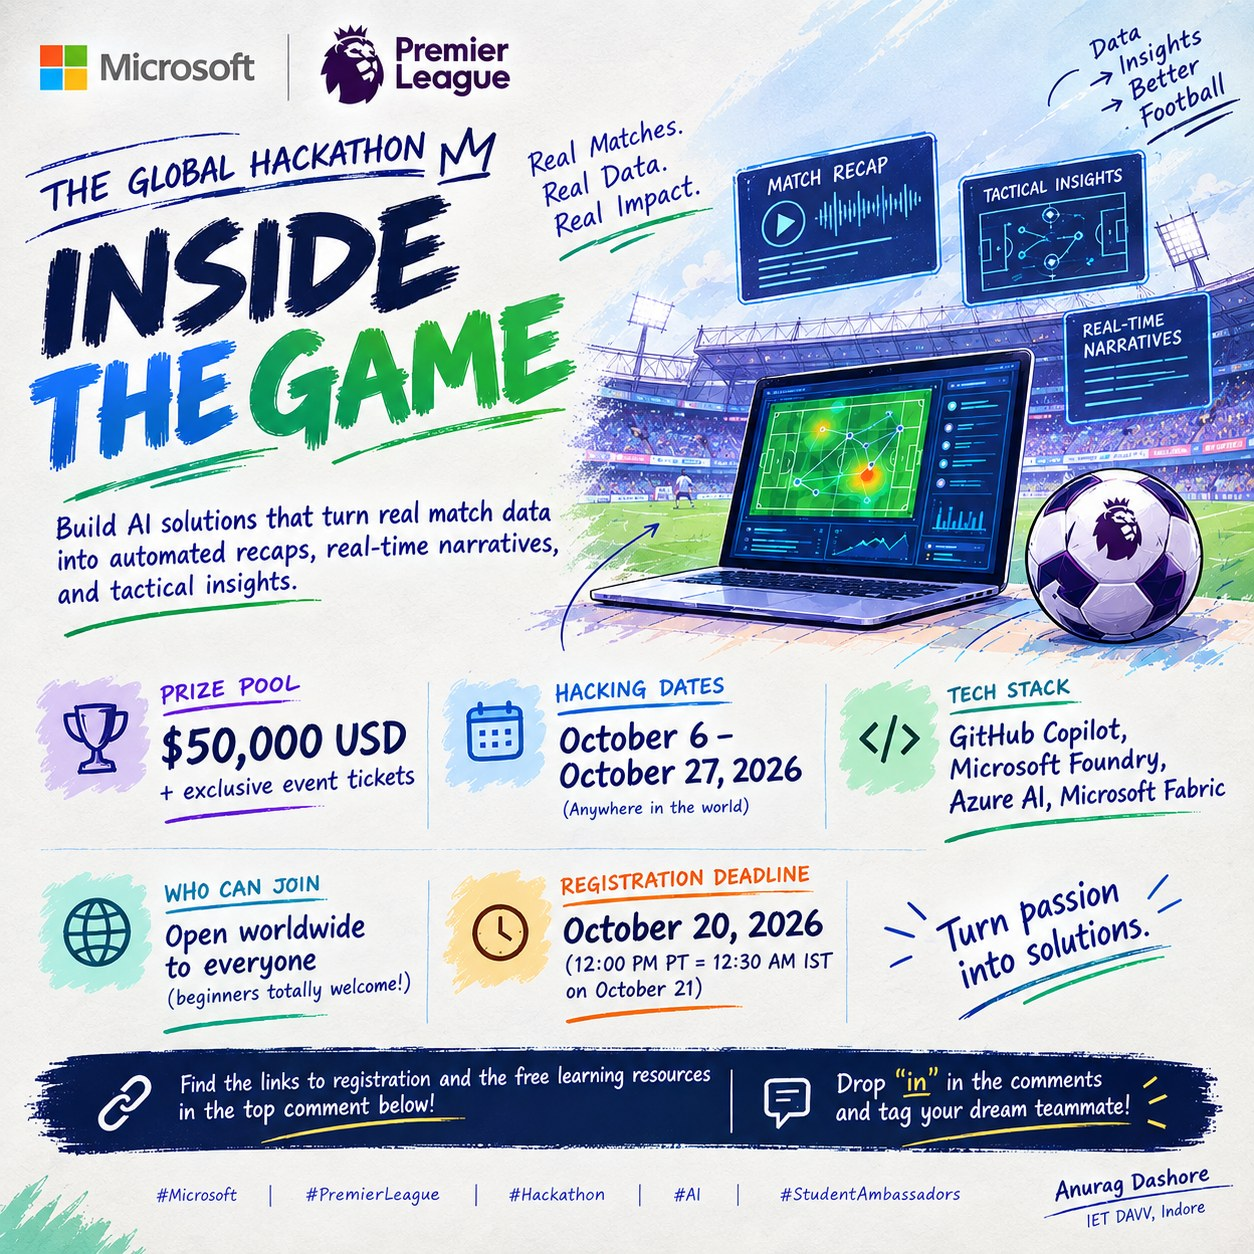
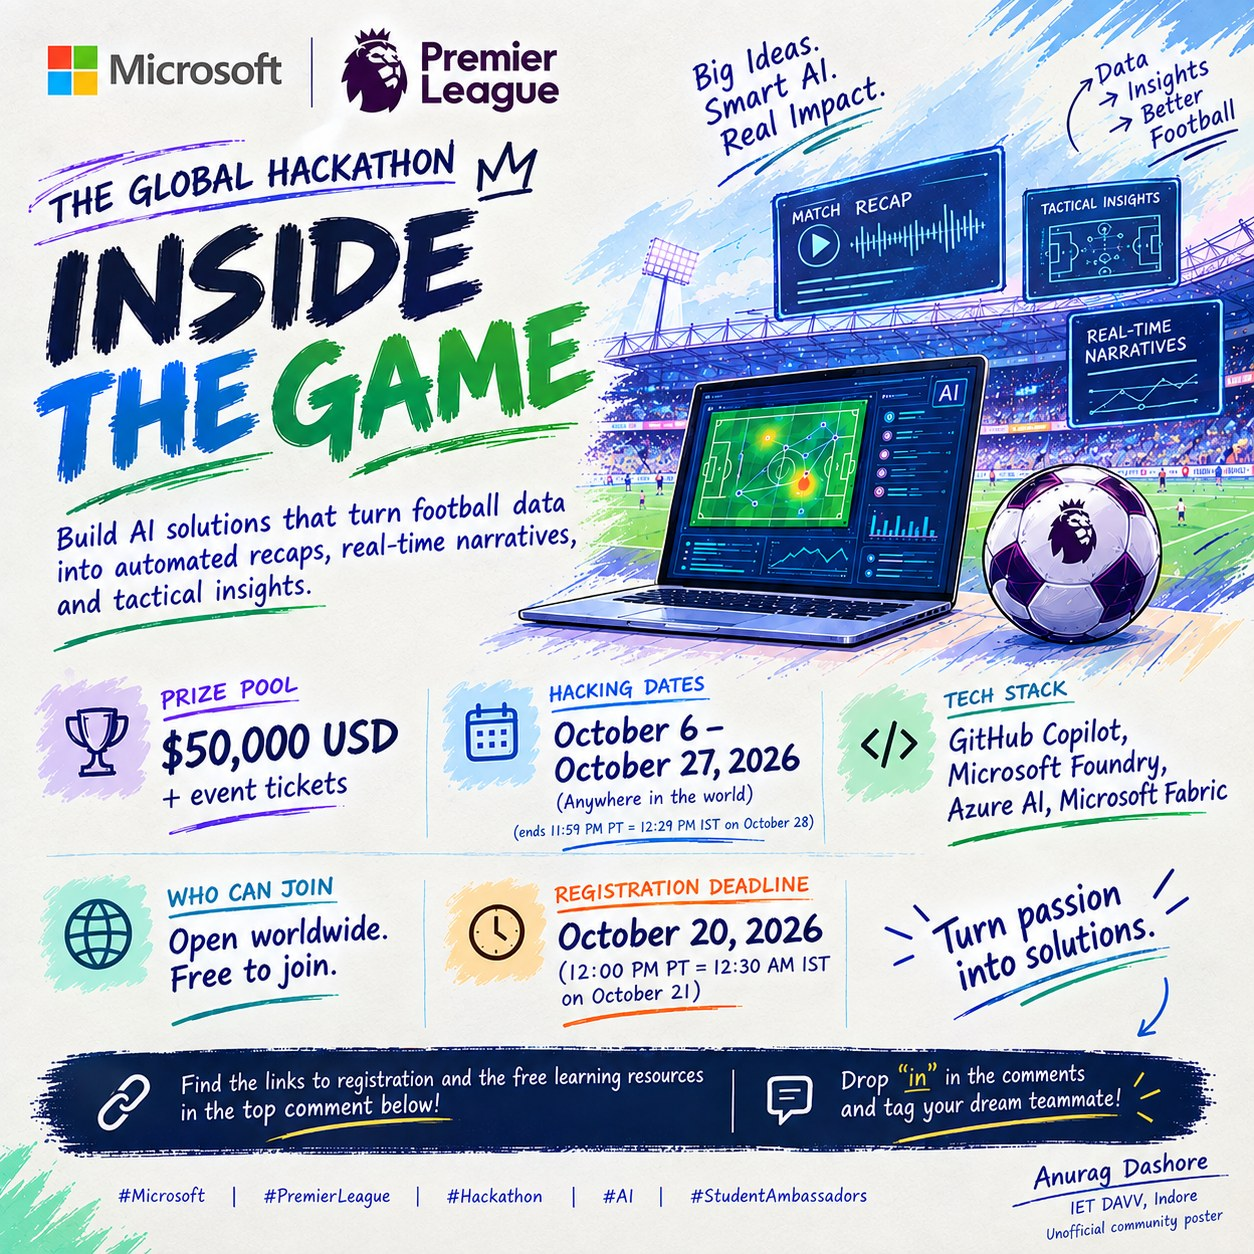
updated
updated

diff --git a/Inside-the-Game_Developer-Hackathon/index.html b/Inside-the-Game_Developer-Hackathon/index.html
@@ -345,7 +345,8 @@
   .res a:hover { text-decoration:underline; }
   .res p { margin:4px 0 0; color:#3c4043; font-size:10.5pt; }
   @media (max-width:700px){ .page-wrap{padding:72px 12px 80px;} .page{padding:32px 22px;} .doc-title{font-size:21pt;} }
-  img.poster { display:block; width:100%; height:auto; border-radius:6px; margin:0 0 28px; box-shadow:0 1px 3px rgba(0,0,0,0.12); }
+  img.poster { display:block; width:100%; height:auto; border-radius:6px; margin:0 0 8px; box-shadow:0 1px 3px rgba(0,0,0,0.12); }
+.caption { font-size:9.5pt; color:#5f6368; margin:0 0 28px; }
 </style>
 </head>
 <body>
@@ -356,7 +357,8 @@
 <h1 class="doc-title">Inside the Game: Developer Hackathon</h1>
 <p class="doc-subtitle">Microsoft + Premier League &middot; Resource hub</p>
 
-<img class="poster" src="inside-the-game-poster.jpg" alt="Inside the Game: Developer Hackathon poster. Prize pool $50,000 USD, hacking dates October 6 to October 27, 2026, registration deadline October 20, 2026." width="1254" height="1254">
+<img class="poster" src="inside-the-game-poster.jpg" alt="Inside the Game: Developer Hackathon poster. Prize pool $50,000 USD plus event tickets. Hacking period October 6 to October 27, 2026. Registration deadline October 20, 2026." width="1254" height="1254">
+<p class="caption">Unofficial community poster by Anurag Dashore.</p>
 
 <h2 class="sub-heading">Overview</h2>
 <p class="body-text">Microsoft and the Premier League invite developers worldwide to join Inside the Game: Developer Hackathon and build AI-powered solutions that transform synthetic, football-realistic data into explainable match intelligence, real-time narratives, and automated match recaps for studio, broadcast, or streaming scenarios.</p>

diff --git a/Inside-the-Game_Developer-Hackathon/inside_the_game_developer_hackathon.md b/Inside-the-Game_Developer-Hackathon/inside_the_game_developer_hackathon.md
@@ -4,6 +4,8 @@ Microsoft + Premier League.
 
 ![Inside the Game poster](inside-the-game-poster.jpg)
 
+*Unofficial community poster by Anurag Dashore.*
+
 ## Overview
 
 Microsoft and the Premier League invite developers worldwide to join Inside the Game: Developer Hackathon and build AI-powered solutions that transform synthetic, football-realistic data into explainable match intelligence, real-time narratives, and automated match recaps for studio, broadcast, or streaming scenarios.
